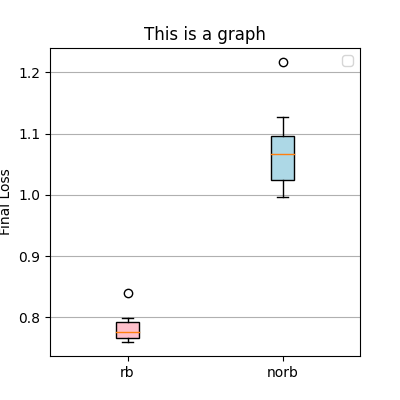
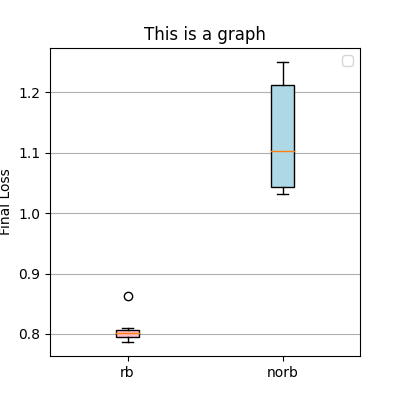
results on compas !

diff --git a/launch.py b/launch.py
@@ -27,7 +27,7 @@ for dataset in datasets:
     elif dataset.lower() == "used_cars":
         task_type = "regression"
     elif dataset.lower() == "compas":
-        task_type = "binclas"
+        task_type = "binclass"
     for model in models:
         for batch_size in batch_sizes:
             command = "python aTOz.py %s %s %s %s %s %s" % (dataset, task_type, model, str(epochs),  str(batch_size), str(reproduction))
